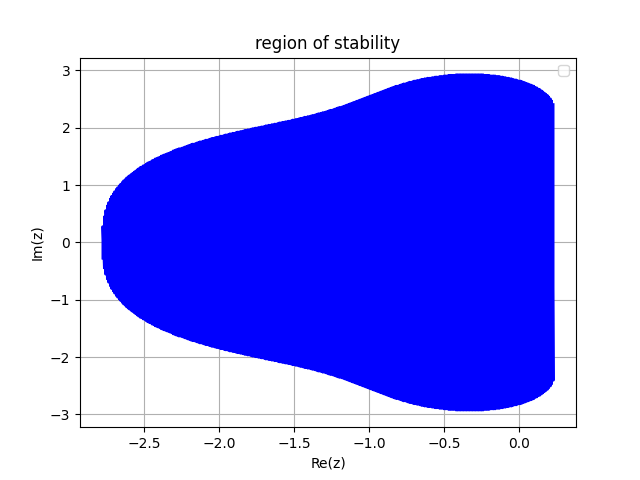
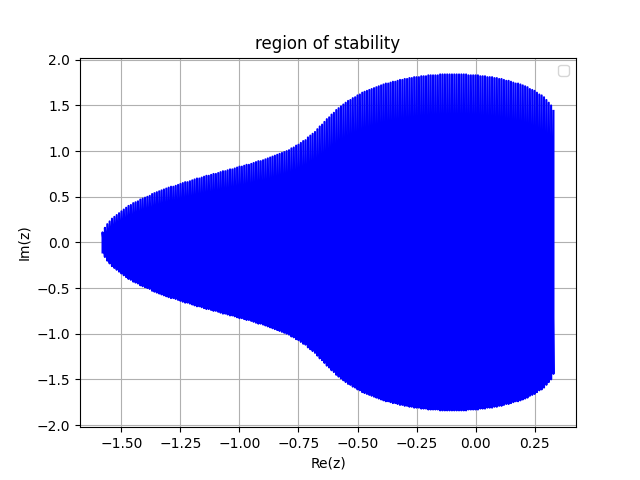
change first task

diff --git a/lab1_2024/main1.py b/lab1_2024/main1.py
@@ -12,6 +12,7 @@ x = 0
 def generate_e(a : float, b : float) -> float:
   return math.fabs(a - b)
 
+
 def generate_delta_t(n : int) -> list[float]: # // 10 -> for example if you want 150 pieces -> n = 10
   arr = list()
   for _ in range(n):
@@ -53,9 +54,13 @@ def draw_graph(u_real : list[float], v_real : list[float], net : list[float]):
 
   plt.legend()
   plt.show()
-def draw_error(u_tmp : list[float], v_tmp : list[float], delta_t : list[float]):
+def draw_error(u_tmp : list[float], v_tmp : list[float], u_tmpp : list[float], v_tmpp : list[float], delta_t : list[float]):
   plt.plot(delta_t, u_tmp, color = "blue", label = r'$ ||u(T) - u(0)|| $')
   plt.plot(delta_t, v_tmp, color = "red", label =  r'$ ||v(T) - v(0)|| $')
+  print(u_tmpp, v_tmpp)
+  plt.plot(delta_t[:-1], u_tmpp, color = "green", linestyle = "--", label = r'$ expected ||u(T) - u(0)|| $')
+  plt.plot(delta_t[:-1], v_tmpp, color = "orange", linestyle = "--", label = r'$ expected ||v(T) - v(0)|| $')
+  plt.plot()
   plt.title("iter_num = 10000")
   plt.legend()
   plt.grid(True)
@@ -65,7 +70,7 @@ def draw_error(u_tmp : list[float], v_tmp : list[float], delta_t : list[float]):
   
   plt.show()
 def for_draw(z):
-  return abs(z ** 4 / 24 + z ** 3 / 6 + z ** 2 / 2 + z + 1)
+  return abs(5 / 12 * z ** 3 + 1 / 2 * z ** 2 + z + 1)
 
 def draw_obl():
   x_obl, y_obl = list(), list()
@@ -88,12 +93,12 @@ def draw_obl():
 
 def main():
   u_tmp, v_tmp = list(), list()
+  u_tmp_2, v_tmp_2 = list(), list()
   p = int(input())
   u_real = [1]
   v_real = [0]  
   delta_t = [T / (10 * k) for k in range (1,p)]
   for m in range(p-1):
-    print("started ", m+1, "iteration...")
     x = 0
     first_eyler(u_real, v_real, x, delta_t[m]) 
     x += 3 * delta_t[m]
@@ -102,12 +107,18 @@ def main():
     u_tmp.append(generate_e(u_real[0], u_real[-1])) # for draw graph e(delta_t)
     v_tmp.append(generate_e(v_real[0], v_real[-1])) # for draw graph e(delta_t)
 
+  
+
+  
+
     net = net_func(delta_t[m])
-    print(len(u_real), len(v_real), len(net))
     u_real = [1]
     v_real = [0]
   draw_obl()
-  draw_error(u_tmp, v_tmp, delta_t)
+  order = 3 
+  u_tmpp = order * np.log(u_tmp[:-1]) - order * np.log(u_tmp[0])
+  v_tmpp = order * np.log(v_tmp[:-1]) - order * np.log(v_tmp[0])
+  draw_error(np.log(u_tmp), np.log(v_tmp), u_tmpp, v_tmpp, np.log(delta_t))
 
 if __name__ == "__main__":
   main()

diff --git a/lab1_2024/main2.py b/lab1_2024/main2.py
@@ -91,7 +91,6 @@ def draw_graph_c4(c_1_x : list[float], net : list[float]):
 
   plt.xlabel("t")
   plt.ylabel(r'c_4')
-  
   plt.grid()
   plt.legend()
   plt.show()
